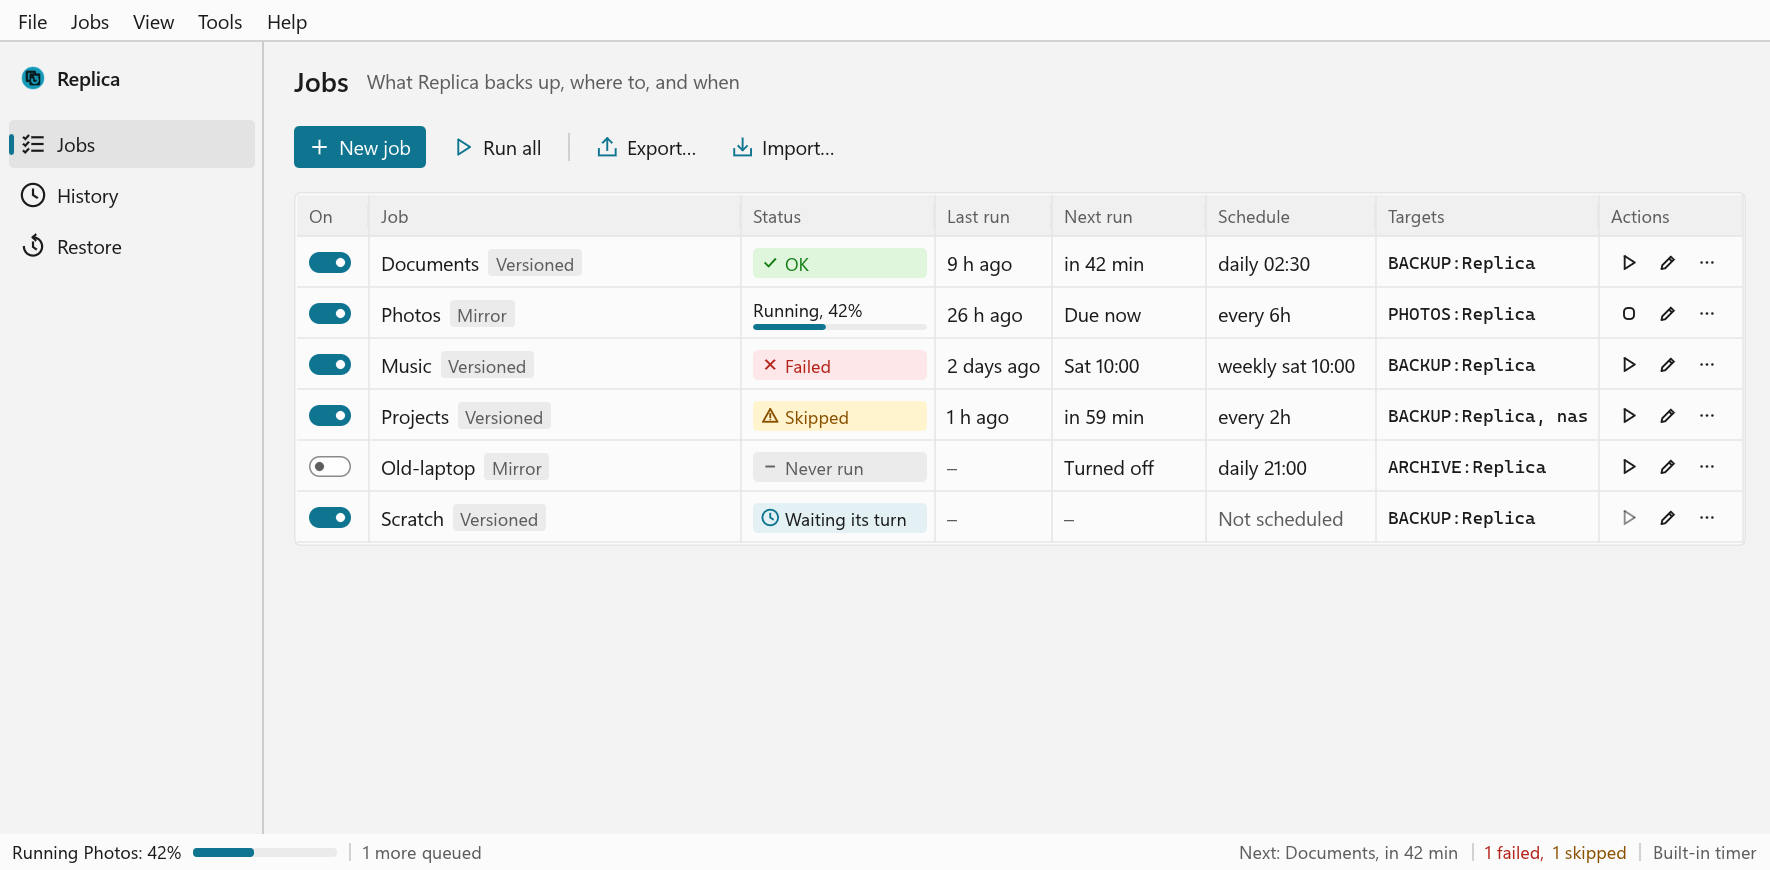
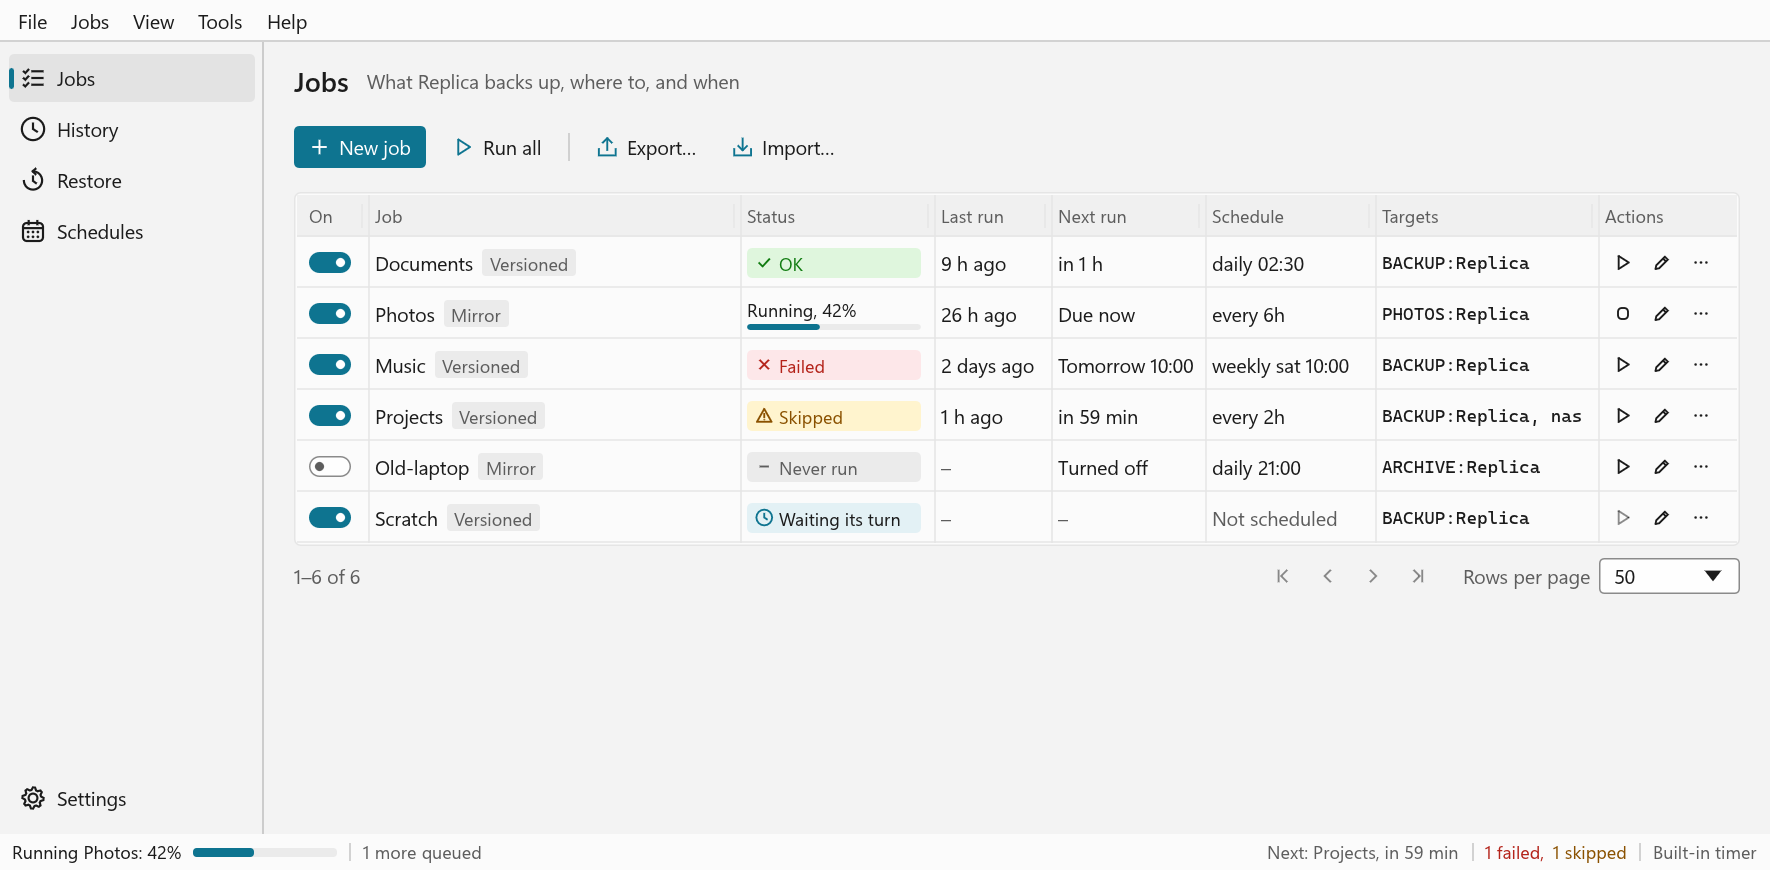
README and user guide show the new sidebar, Schedules page and paging
The README's screenshots are rendered again from the screenshot harness:
the sidebar without its logo, with Schedules and with Settings at its
foot, and the pager under the jobs table; their alt text says so.

The README's Schedules section now names the window's Schedules page and
Settings > Scheduling, and says that turning Task Scheduler off in the
window asks whether to delete its tasks or keep them off; its privacy
line names Help > Check for updates beside About's Check now. The user
guide says where the option and the tasks' own switches are, and its
contents list gains The window (its menus, status bar and paged tables)
and Moving jobs to another PC, which had no entry.

diff --git a/README.md b/README.md
@@ -10,7 +10,7 @@
 
 <picture>
   <source media="(prefers-color-scheme: dark)" srcset="docs/screenshots/jobs-dark.png">
-  <img src="docs/screenshots/jobs-light.png" alt="Replica's window on its Jobs page: a menu bar (File, Jobs, View, Tools, Help), a sidebar of Jobs, History, Restore, Schedules and Settings, and a table of six backup jobs with their status (OK, running at 42%, failed, skipped, never run and waiting its turn), last and next run, schedule, targets and actions; along the bottom, a status bar with the running job's progress, the next run, 1 failed and 1 skipped, and the built-in timer">
+  <img src="docs/screenshots/jobs-light.png" alt="Replica's window on its Jobs page: a menu bar (File, Jobs, View, Tools, Help), a sidebar of Jobs, History, Restore and Schedules with Settings at its foot, and a table of six backup jobs with their status (OK, running at 42%, failed, skipped, never run and waiting its turn), last and next run, schedule, targets and actions, with a pager under it (1–6 of 6, 50 rows per page); along the bottom, a status bar with the running job's progress, the next run, 1 failed and 1 skipped, and the built-in timer">
 </picture>
 
 Replica backs up your folders to an external drive or a NAS share on a schedule. Each backup is a
@@ -141,15 +141,20 @@ catches up.
 ## Schedules
 
 A job's `schedule` is `daily 02:30`, `weekly mon,thu 21:00`, `every 6h` or `every 90m`; without
-one, it runs only when you ask.
+one, it runs only when you ask. In the window, the **Schedules** page sets each job's schedule,
+with the same choices as the job editor, says when it next runs, and lists Replica's tasks in
+Task Scheduler; **Settings > Scheduling** chooses what runs the schedules.
 
 - **The built-in timer (the default):** the tray app runs schedules while it's running. Turn on
   **Start with Windows** in its menu, and it always is.
-- **Windows Task Scheduler (optional, off by default):** set `schedule_mode = "task-scheduler"`,
-  and Replica makes a per-user task for each scheduled job (no admin rights), so backups run even
-  when the tray app isn't running, while you're logged on. `replica tasks list` shows them all,
-  and `replica tasks enable|disable|remove` manages them. Turning the option off removes the tasks
-  that are on; `replica tasks remove --all` removes any you'd turned off too.
+- **Windows Task Scheduler (optional, off by default):** choose it in **Settings > Scheduling**
+  (or set `schedule_mode = "task-scheduler"`), and Replica makes a per-user task for each
+  scheduled job (no admin rights), so backups run even when the tray app isn't running, while
+  you're logged on. The **Schedules** page lists them, with each one's switch and Delete, as
+  `replica tasks list` and `replica tasks enable|disable|remove` do. Turning the option off in
+  the window asks whether to delete the tasks or keep them turned off; turned off in the file,
+  the tasks that are on are removed. `replica tasks remove --all` removes any you'd turned off
+  too.
 
 The two never both run a job, and a job never runs twice at once.
 
@@ -238,9 +243,9 @@ and if they match, choose **More info**, then **Run anyway**.
 
 **No telemetry, ever.** Replica sends nothing anywhere and has no account. It connects to
 nothing but the targets you set up (your drives and your NAS shares), and to GitHub only if you
-ask: **"Check for updates" is off by default**. When you turn it on, or press Check now in
-About, Replica only reads which release is the latest on GitHub; it never downloads or installs
-anything by itself.
+ask: **"Check for updates" is off by default**. When you turn it on, or press **Check now** in
+About (or **Help > Check for updates…**), Replica only reads which release is the latest on
+GitHub; it never downloads or installs anything by itself.
 
 ## Licence
 

diff --git a/docs/user-guide.md b/docs/user-guide.md
@@ -10,6 +10,7 @@ getting files back, and what to do when something goes wrong.
 - [The repository password](#the-repository-password)
 - [Before and after steps](#before-and-after-steps)
 - [Schedules](#schedules)
+- [The window](#the-window): its menus, status bar and tables
 - [Updates](#updates)
 - [The tray icon](#the-tray-icon)
 - [Restoring](#restoring)
@@ -17,6 +18,7 @@ getting files back, and what to do when something goes wrong.
 - [Retention and verify](#retention-and-verify)
 - [Keeping something forever](#keeping-something-forever)
 - [Recover without Replica](#recover-without-replica)
+- [Moving jobs to another PC](#moving-jobs-to-another-pc)
 - [Running Replica from other apps](#running-replica-from-other-apps)
 - [Installed or portable](#installed-or-portable)
 - [Troubleshooting](#troubleshooting)
@@ -318,7 +320,8 @@ notification area only, so logging on doesn't open the window.
 Closing or minimising the window keeps Replica running in the notification area (the first time,
 it says so). **Quit** in the tray menu stops the tray app and its built-in timer. **Task
 Scheduler's tasks keep running without it**, by design: to stop scheduled backups whatever runs
-them, use **Pause schedules**, or turn Task Scheduler off (or turn its tasks off) in **Settings**.
+them, use **Pause schedules**, turn the Task Scheduler option off in **Settings > Scheduling**,
+or turn its tasks off one by one on the **Schedules** page, under **Task Scheduler tasks**.
 
 ## Restoring
 
